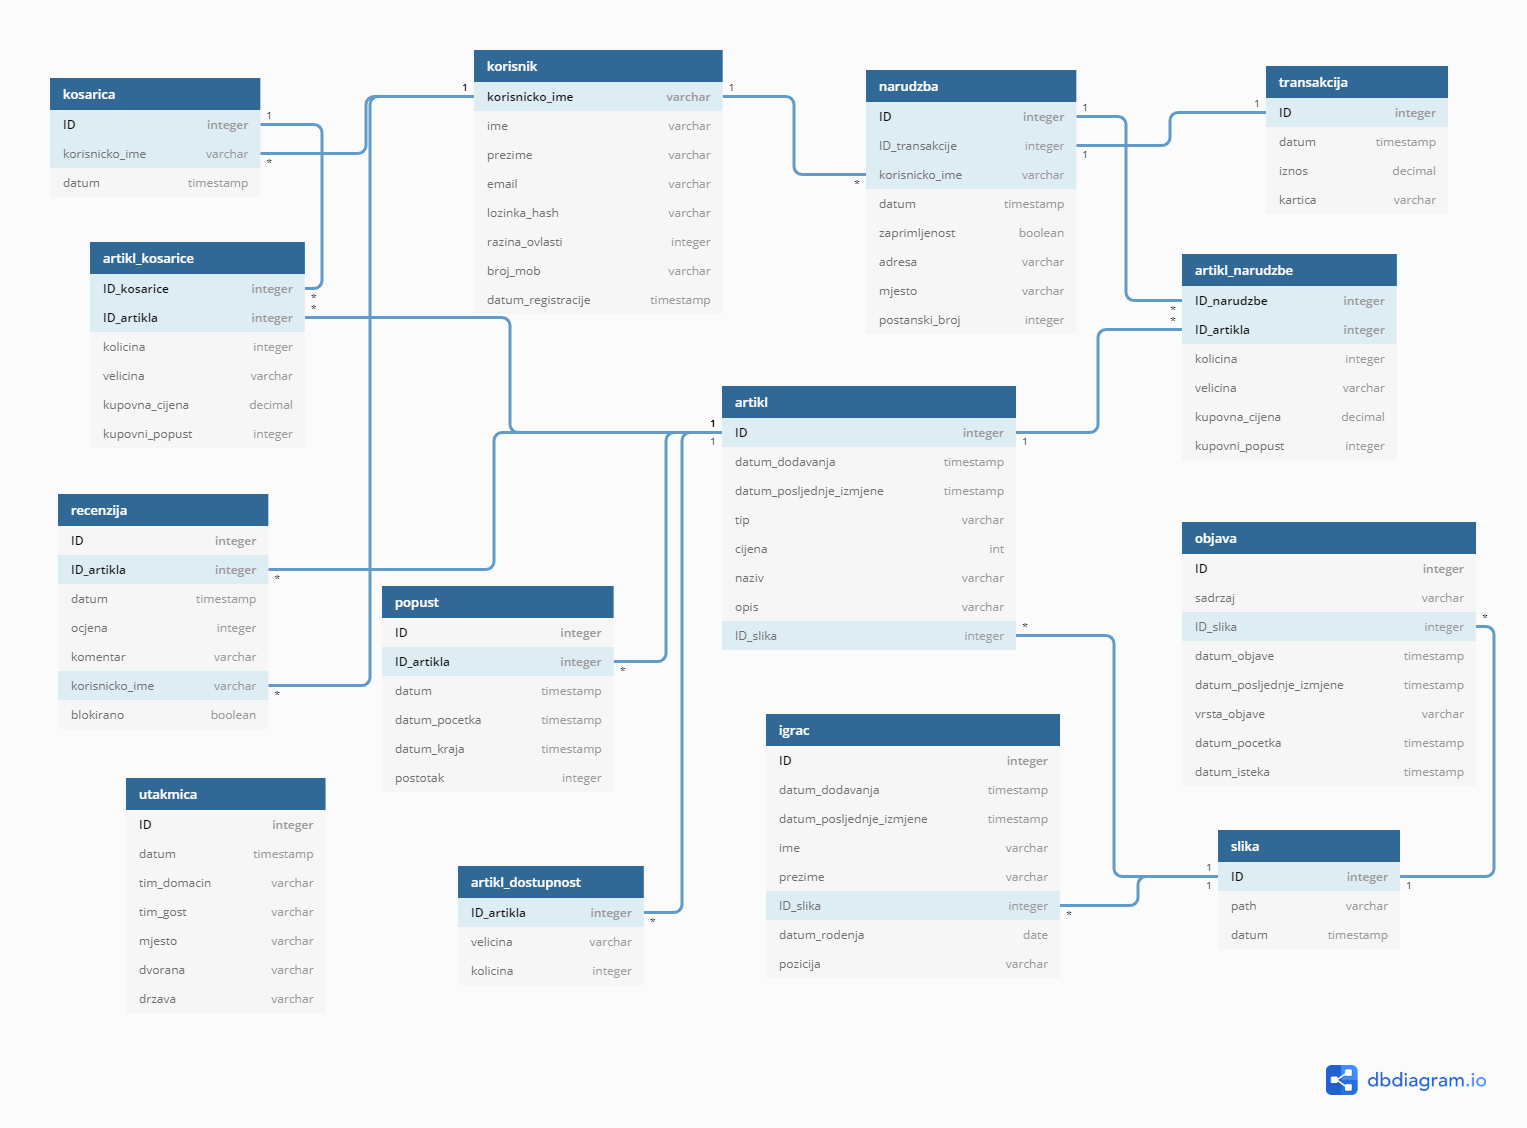
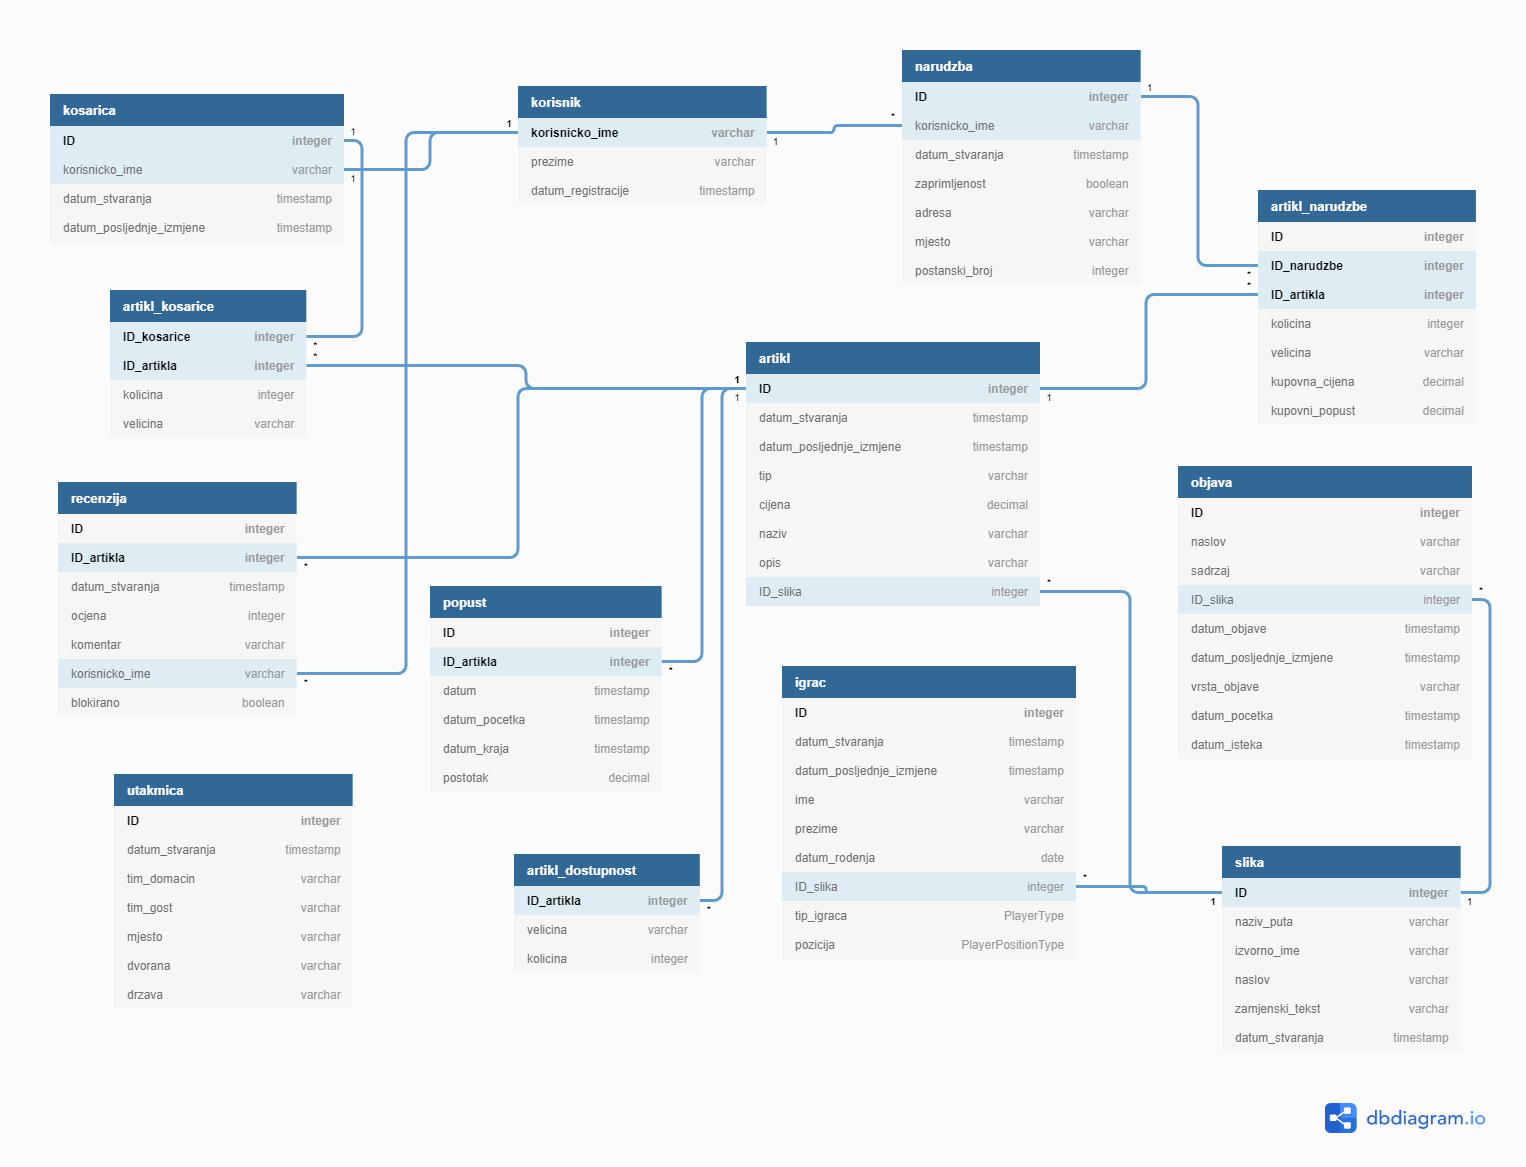
Chapter 'Baza podataka' updated.

diff --git a/dokumentacija/Arhitektura.tex b/dokumentacija/Arhitektura.tex
@@ -35,7 +35,6 @@
 			\item  Košarica
 			\item  Korisnik
 			\item  Narudžba
-			\item Transakcija
 			\item Artikl košarice
 			\item Artikl narudžbe
 			\item Artikl
@@ -56,7 +55,7 @@
 				
 				\bigbreak
 
-				\textnormal{Tablica \textbf{Korisnik} opisuje svakog korisnika, klijenta, trenera, upravu ili administratora aplikacije. Sadrži atribute: korisničko ime, ime, prezime, e-mail, hash lozinke, razinu ovlasti, broj mobitela i datum registracije. Povezana je vezom \textit{One-to-Many} s entitetima Narudžba, Košarica i Recenzija preko korisničkog imena.}
+				\textnormal{Tablica \textbf{Korisnik} opisuje svakog korisnika, klijenta, trenera, upravu ili administratora aplikacije. Sadrži atribute: korisničko ime, prezime i datum registracije. Povezana je vezom \textit{One-to-Many} s entitetima Narudžba i Recenzija, a \textit{One-to-One} s Košaricom preko korisničkog imena.}
 				
 				\begin{longtabu} to \textwidth {|X[8, l]|X[6, l]|X[20, l]|}
 					
@@ -70,20 +69,15 @@
 					\endlastfoot
 					
 					\textbf{korisnicko\_ime}  & VARCHAR	&  jedinstveni identifikator korisnika	\\ \hline
-					ime	& VARCHAR &   ime korisnika	\\ \hline 
 					prezime & VARCHAR & prezime korisnika \\ \hline
-					e-mail & VARCHAR & e-mail korisnika  \\ \hline 
-					lozinka\_hash & VARCHAR	&  	hash lozinke	\\ \hline 
-					razina\_ovlasti & INT & razina ovlasti korisnika \\ \hline
-					broj\_mob & VARCHAR & broj mobitela korisnika \\ \hline 
 					datum\_registracije	& TIMESTAMP & datum registracije korisnika   	\\ \hline 
 					
 					
 				\end{longtabu}
 			
-			\textnormal{Tablica \textbf{Košarica} opisuje košarice koje se koriste u web shop-u. Sadrži atribute: ID, korisničko ime te datum kreiranja košarice. Povezana je vezom \textit{One-to-Many} s entitetom Artikl Košarice preko ID-a i \textit{Many-to-One} s entitetom Korisnik preko korisničkog imena. }
+			\textnormal{Tablica \textbf{Košarica} opisuje košarice koje se koriste u web shop-u. Sadrži atribute: ID, korisničko ime te datum kreiranja i posljednje izmjene košarice. Povezana je vezom \textit{One-to-Many} s entitetom Artikl Košarice preko ID-a i \textit{One-to-One} s entitetom Korisnik preko korisničkog imena. }
 			
-			\begin{longtabu} to \textwidth {|X[8, l]|X[6, l]|X[20, l]|}
+			\begin{longtabu} to \textwidth {|X[12, l]|X[6, l]|X[16, l]|}
 				
 				\hline \multicolumn{3}{|c|}{\textbf{Košarica}}	 \\[3pt] \hline
 				\endfirsthead
@@ -96,12 +90,13 @@
 				
 				\textbf{ID} & INT	&  jedinstveni identifikator košarice	\\ \hline
 				\textit{korisnicko\_ime} 	& VARCHAR &   ime korisnika koji koristi košaricu	\\ \hline 
-				datum& TIMESTAMP & datum kreiranja košarice	\\ \hline 
+				datum\_stvaranja& TIMESTAMP & datum kreiranja košarice	\\ \hline
+				datum\_posljednje\_izmjene& TIMESTAMP & datum posljednje izmjene košarice	\\ \hline 
 				
 			\end{longtabu}
 		
 		
-		\textnormal{Tablica \textbf{Artikl Košarice} opisuje artikle košarice koje se koriste u web shop-u. Sadrži atribute: ID košarice, ID artikla, količinu artikla, veličinu artikla, kupovnu cijenu i kupovni popust. Povezana je vezom \textit{Many-to-One} s entitetima Artikl i Košarica preko ID artikla, odnosno ID košarice.}
+		\textnormal{Tablica \textbf{Artikl Košarice} opisuje artikle košarice koje se koriste u web shop-u. Sadrži atribute: ID košarice, ID artikla, količinu artikla i veličinu artikla. Povezana je vezom \textit{Many-to-One} s entitetima Artikl i Košarica preko ID artikla, odnosno ID košarice.}
 		
 		\begin{longtabu} to \textwidth {|X[8, l]|X[6, l]|X[20, l]|}
 			
@@ -114,12 +109,10 @@
 			\hline 
 			\endlastfoot
 			
-			\textbf{ID\_košarice} & INT	&  jedinstveni identifikator košarice	\\ \hline
-			\textbf{ID\_artikla}	& int &  jedinstveni identifikator artikla	\\ \hline 
+			\textbf{\textit{ID\_košarice}} & INT	&  jedinstveni identifikator košarice	\\ \hline
+			\textbf{\textit{ID\_artikla}}	& INT &  jedinstveni identifikator artikla	\\ \hline 
 			kolicina & INT  & količina artikla \\ \hline 
 			velicina & VARCHAR  & veličina artikla \\ \hline 
-			kupovna\_cijena & DECIMAL  & kupovna cijena artikla \\ \hline 
-			kupovni\_popust & INT  & kupovni popust artikla  \\ \hline 
 			
 		\end{longtabu}
 		\textnormal{Tablica \textbf{Recenzija} opisuje recenzije ostavljene artiklu u web shop-u. Sadrži atribute: ID, ID artikla, datum, ocjena, komentar, korisničko ime i blokirano. Povezana je vezom \textit{Many-to-One} s entitima Artikl i Korisnik preko ID artikla, odnosno korisničkog imena. }
@@ -136,16 +129,16 @@
 		\endlastfoot
 		
 		\textbf{ID} & INT	&  jedinstveni identifikator recenzije	\\ \hline
-		\textit{ID\_artikla}	& INT &  jedinstveni identifikator artikla	\\ \hline 
-		datum & TIMESTAMP  & datum dodavanja recenzije \\ \hline 
+		\textit{\textbf{ID\_artikla}}	& INT &  jedinstveni identifikator artikla	\\ \hline 
+		datum\_stvaranja & TIMESTAMP  & datum dodavanja recenzije \\ \hline 
 		ocjena & INT  & ocjena artikla \\ \hline 
 		komentar & VARCHAR  & komentar recenzije \\ \hline 
-		korisnicko\_ime & INT  & korisničko ime korisnika koji ostavlja recenziju  \\ \hline 
+		\textit{korisnicko\_ime} & VARCHAR  & korisničko ime korisnika koji ostavlja recenziju  \\ \hline 
 		blokirano & BOOLEAN  & dozvoljena ili blokirana recenzija \\ \hline 
 		
 	\end{longtabu}
 
-	\textnormal{Tablica \textbf{Utakmica} opisuje utakmice kluba. Sadrži atribute: ID, datum, tim domacin, tim gost, mjesto, dvorana i drzava. }
+	\textnormal{Tablica \textbf{Utakmica} opisuje utakmice kluba. Sadrži atribute: ID, datum stvaranja, tim domacin, tim gost, mjesto, dvorana i drzava. }
 
 \begin{longtabu} to \textwidth {|X[8, l]|X[6, l]|X[20, l]|}
 	
@@ -159,7 +152,7 @@
 	\endlastfoot
 	
 	\textbf{ID} & INT	&  jedinstveni identifikator utakmice	\\ \hline
-	datum & TIMESTAMP &  jedinstveni identifikator artikla	\\ \hline 
+	datum\_stvaranja & TIMESTAMP &  jedinstveni identifikator artikla	\\ \hline 
 	tim\_domacin & VARCHAR  & tim domaćin utakmice \\ \hline 
 	tim\_gost & VARCHAR  & tim gost utakmice  \\ \hline 
 	mjesto & VARCHAR  & mjesto održavanja utakmice \\ \hline 
@@ -168,7 +161,7 @@
 	
 \end{longtabu}
 
-\textnormal{Tablica \textbf{Popust} opisuje popuste na artikl dodane na web shop. Sadrži atribute: ID, ID artikla, datum, datum pocetka, datum kraja i postotak popusta. Entitet je povezan vezom \textit{Many-to-One} s entitetom Artikl preko ID artikla.}
+\textnormal{Tablica \textbf{Popust} opisuje popuste na artikl dodane na web shop. Sadrži atribute: ID, ID artikla, datum stvaranja, datum početka, datum kraja i postotak popusta. Entitet je povezan vezom \textit{Many-to-One} s entitetom Artikl preko ID artikla.}
 
 \begin{longtabu} to \textwidth {|X[8, l]|X[6, l]|X[20, l]|}
 	
@@ -182,15 +175,15 @@
 	\endlastfoot
 	
 	\textbf{ID} & INT	&  jedinstveni identifikator popusta	\\ \hline
-	\textit{ID\_artikla} & INT &  jedinstveni identifikator artikla	\\ \hline 
+	\textit{\textbf{ID\_artikla}} & INT &  jedinstveni identifikator artikla	\\ \hline 
 	datum & TIMESTAMP  & datum stvaranja popusta \\ \hline 
 	datum\_pocetka & TIMESTAMP  & datum početka popusta  \\ \hline 
 	datum\_kraja & TIMESTAMP  & datum završetka popusta \\ \hline 
-	postotak & INT  & postotak popusta \\ \hline 
+	postotak & DECIMAL  & postotak popusta \\ \hline 
 	
 \end{longtabu}
 
-\textnormal{Tablica \textbf{Slika} opisuje slike dodane na web stranicu. Sadrži atribute: ID, path, datum. Entitet je povezan vezom \textit{One-to-Many} s entitetima Artikl, Objava i Igrač preko ID slike.}
+\textnormal{Tablica \textbf{Slika} opisuje slike dodane na web stranicu. Sadrži atribute: ID, naziv puta, izvorno ime, naslov, zamjenski tekst i datum stvaranja. Entitet je povezan vezom \textit{One-to-Many} s entitetima Artikl, Objava i Igrač preko ID slike.}
 
 \begin{longtabu} to \textwidth {|X[8, l]|X[6, l]|X[20, l]|}
 	
@@ -204,13 +197,16 @@
 	\endlastfoot
 	
 	\textbf{ID} & INT	&  jedinstveni identifikator slike	\\ \hline
-     path & VARCHAR  &  put do slike	\\ \hline 
-	datum & TIMESTAMP  & datum dodavanja slike \\ \hline 
+    naziv\_puta & VARCHAR  &  put do slike	\\ \hline 
+	izvorno\_ime & VARCHAR  & izvorno ime slike \\ \hline
+	naslov & VARCHAR  & ime slike \\ \hline
+	zamjenski\_tekst & VARCHAR  & zamjenski tekst slike koje ne može biti prikazana \\ \hline
+	datum\_stvaranja & TIMESTAMP  & datum dodavanja slike \\ \hline
 \end{longtabu}
 
-\textnormal{Tablica \textbf{Artikl} opisuje artikle dodane na web shop. Sadrži atribute: ID, datum dodavanja, datum posljednje izmjene, tip, cijenu, naziv, opis, ID slike. Entitet je povezan vezom \textit{One-to-Many} s entitetima Artikl Dostupnost, Popust, Artikl Narudžbe, Recenzija te Artikl Košarice preko ID artikla i vezom \textit{Many-to-One} s entitetom Slika preko ID slike.}
+\textnormal{Tablica \textbf{Artikl} opisuje artikle dodane na web shop. Sadrži atribute: ID, datum stvaranja, datum posljednje izmjene, tip, cijenu, naziv, opis, ID slike. Entitet je povezan vezom \textit{One-to-Many} s entitetima Artikl Dostupnost, Popust, Artikl Narudžbe, Recenzija te Artikl Košarice preko ID artikla i vezom \textit{Many-to-One} s entitetom Slika preko ID slike.}
 
-\begin{longtabu} to \textwidth {|X[8, l]|X[6, l]|X[20, l]|}
+\begin{longtabu} to \textwidth {|X[12, l]|X[6, l]|X[16, l]|}
 	
 	\hline \multicolumn{3}{|c|}{\textbf{Artikl}}	 \\[3pt] \hline
 	\endfirsthead
@@ -222,16 +218,16 @@
 	\endlastfoot
 	
 	\textbf{ID} & INT	&  jedinstveni identifikator artikla	\\ \hline
-	datum\_dodavanja & TIMESTAMP  & datum dodavanja artikla \\ \hline 
-	datum\_izmjene & TIMESTAMP  & datum posljednje izmjene slike \\ \hline 
+	datum\_stvaranja & TIMESTAMP  & datum dodavanja artikla \\ \hline 
+	datum\_posljednje\_izmjene & TIMESTAMP  & datum posljednje izmjene slike \\ \hline 
 	tip & VARCHAR  & tip artikla \\ \hline 
-	cijena & INT  & cijena artikla \\ \hline 
+	cijena & DECIMAL  & cijena artikla \\ \hline 
 	naziv  & VARCHAR  & naziv artikla \\ \hline 
 	opis & VARCHAR  & opis artikla \\ \hline 
-	\textit{ID\_slike} & INT  & jedinstveni identifikator slike  \\ \hline 
+	\textit{ID\_slika} & INT  & jedinstveni identifikator slike  \\ \hline 
 	 
 \end{longtabu}
-\textnormal{Tablica \textbf{Narudžba} opisuje narudžbe artikala aplikacije. Sadrži atribute: ID,korisničko ime, datum, zaprimljenost, adresa, mjesto, poštanski broj. Entitet je povezan vezom \textit{One-to-Many} s entitetima Artikl Narudžbe preko ID narudžbe i vezom \textit{Many-to-One} s entitetom Korisnik preko korisničkog imena.}
+\textnormal{Tablica \textbf{Narudžba} opisuje narudžbe artikala aplikacije. Sadrži atribute: ID, korisničko ime, datum stvaranja, zaprimljenost, adresa, mjesto, poštanski broj. Entitet je povezan vezom \textit{One-to-Many} s entitetima Artikl Narudžbe preko ID narudžbe i vezom \textit{Many-to-One} s entitetom Korisnik preko korisničkog imena.}
 
 \begin{longtabu} to \textwidth {|X[8, l]|X[6, l]|X[20, l]|}
 	
@@ -246,7 +242,7 @@
 	
 	\textbf{ID} & INT	&  jedinstveni identifikator narudžbe	\\ \hline
 	\textit{korisnicko\_ime} & VARCHAR  & korisničko ime korisnika koji naručuje \\ \hline 
-	datum & TIMESTAMP  & datum formiranja narudžbe\\ \hline 
+	datum\_stvaranja & TIMESTAMP  & datum formiranja narudžbe\\ \hline 
 	zaprimljenost & BOOLEAN  & oznaka zaprimljenosti narudžbe \\ \hline 
 	adresa  & VARCHAR  & adresa korisnika koji naručuje \\ \hline 
 	mjesto & VARCHAR  & mjesto korisnika koji naručuje\\ \hline 
@@ -256,7 +252,7 @@
 
 \textnormal{Tablica \textbf{Objava} opisuje sadržaje objavljene na stranici. Sadrži atribute: ID, naslov, sadržaj, ID slike, datum objave, datum izmjene, vrsta objave, datum pocetka i datum isteka. Entitet je povezan  vezom \textit{Many-to-One} s entitetom Slika preko ID slike.}
 
-\begin{longtabu} to \textwidth {|X[8, l]|X[6, l]|X[20, l]|}
+\begin{longtabu} to \textwidth {|X[12, l]|X[6, l]|X[16, l]|}
 	
 	\hline \multicolumn{3}{|c|}{\textbf{Objava}}	 \\[3pt] \hline
 	\endfirsthead
@@ -268,33 +264,14 @@
 	\endlastfoot
 	
 	\textbf{ID} & INT	&  jedinstveni identifikator objave	\\ \hline
-	 sadržaj & VARCHAR  & sadržaj objave \\ \hline 
-	 naslov & VARCHAR  & naslov objave \\ \hline
-	\textit{ID\_slike} & ID  & jedinstveni identifikator slike  \\ \hline 
+	naslov & VARCHAR  & naslov objave \\ \hline
+	sadržaj & VARCHAR  & sadržaj objave \\ \hline
+	\textit{ID\_slika} & INT  & jedinstveni identifikator slike  \\ \hline 
 	datum\_objave & TIMESTAMP  & datum postavljanja objave \\ \hline 
-	datum\_izmjene & TIMESTAMP  & datum posljednje izmjene objave \\ \hline
+	datum\_posljednje\_izmjene & TIMESTAMP  & datum posljednje izmjene objave \\ \hline
 	vrsta\_objave & VARCHAR  & vrsta objave \\ \hline 
 	datum\_pocetka & TIMESTAMP  & datum početka objave \\ \hline
 	datum\_isteka & TIMESTAMP  & datum isteka objave \\ \hline
-	
-\end{longtabu}
-\textnormal{Tablica \textbf{Transakcija} opisuje sve obavljane transakcije. Sadrži atribute: ID, datum, iznos, kartica. Entitet je povezan  vezom \textit{One-to-Many} s entitetom Narudžba preko ID transakcije.}
-
-\begin{longtabu} to \textwidth {|X[8, l]|X[6, l]|X[20, l]|}
-	
-	\hline \multicolumn{3}{|c|}{\textbf{Transakcija}}	 \\[3pt] \hline
-	\endfirsthead
-	
-	\hline \multicolumn{3}{|c|}{\textbf{Transakcija}}	 \\[3pt] \hline
-	\endhead
-	
-	\hline 
-	\endlastfoot
-	
-	\textbf{ID} & INT	&  jedinstveni identifikator transakcije	\\ \hline
-	datum & TIMESTAMP  & datum obavljanja transakcije  \\ \hline 
-	iznos & DECIMAL  & iznos transakcije \\ \hline
-	kartica & VARCHAR  & kartica transakcije  \\ \hline 
 	
 \end{longtabu}
 
@@ -312,12 +289,12 @@
 	\endlastfoot
 	
 	\textbf{ID\_artikla} & INT	&  jedinstveni identifikator artikla	\\ \hline
-	\textbf {veličina} & VARCHAR  & veličina artikla \\ \hline
+	veličina & VARCHAR  & veličina artikla \\ \hline
 	količina & INT  & količina artikla  \\ \hline 
 	
 \end{longtabu}
 
-\textnormal{Tablica \textbf{Artikl narudžbe} opisuje sve artikle narudžbe. Sadrži atribute: ID narudžbe, ID artikla, količina, veličina, kupovna cijena i kupovni popust. Entitet je povezan  vezom \textit{Many-to-One} s entitetima Narudžba preko ID narudžbe i Artikl preko ID artikla.}
+\textnormal{Tablica \textbf{Artikl narudžbe} opisuje sve artikle narudžbe. Sadrži atribute: ID, ID narudžbe, ID artikla, količina, veličina, kupovna cijena i kupovni popust. Entitet je povezan  vezom \textit{Many-to-One} s entitetima Narudžba preko ID narudžbe i Artikl preko ID artikla.}
 
 \begin{longtabu} to \textwidth {|X[8, l]|X[6, l]|X[20, l]|}
 	
@@ -330,18 +307,19 @@
 	\hline 
 	\endlastfoot
 	
+	\textbf{ID} & INT &  jedinstveni identifikator artikla narudžbe	\\ \hline
 	\textbf{ID\_narudzbe} & INT	&  jedinstveni identifikator narudžbe	\\ \hline
 	\textbf{ID\_artikla} & INT	&  jedinstveni identifikator artikla	\\ \hline
 	količina & INT  & količina artikla  \\ \hline 
 	veličina & VARCHAR  & veličina artikla \\ \hline
 	kupovna\_cijena & DECIMAL  & kupovna cijena  \\ \hline 
-	kupovni\_popust & INT  & kupovni popust \\ \hline
+	kupovni\_popust & DECIMAL  & kupovni popust \\ \hline
 	
 \end{longtabu}
 
-\textnormal{Tablica \textbf{Igrač} opisuje sve igrače. Sadrži atribute: ID, datum dodavanja, datum posljednje izmjene, ime, prezime, ID slike, datum rođenja i pozicija. Entitet je povezan vezom \textit{Many-to-One} s entitetom Slika.}
+\textnormal{Tablica \textbf{Igrač} opisuje sve igrače. Sadrži atribute: ID, datum stvaranja, datum posljednje izmjene, ime, prezime, ID slike, datum rođenja, tip igrača i njegova pozicija. Entitet je povezan vezom \textit{Many-to-One} s entitetom Slika.}
 
-\begin{longtabu} to \textwidth {|X[8, l]|X[6, l]|X[20, l]|}
+\begin{longtabu} to \textwidth {|X[12, l]|X[12, l]|X[10, l]|}
 	
 	\hline \multicolumn{3}{|c|}{\textbf{Igrač}}	 \\[3pt] \hline
 	\endfirsthead
@@ -352,14 +330,15 @@
 	\hline 
 	\endlastfoot
 	
-	\textbf{ID\_narudzbe} & INT	&  jedinstveni identifikator igrača	\\ \hline
-	datum\_dodavanja & TIMESTAMP  & datum dodavanja igrača \\ \hline 
-	datum\_izmjene & TIMESTAMP  & datum izmjene igrača \\ \hline 
+	\textbf{ID} & INT	&  jedinstveni identifikator igrača	\\ \hline
+	datum\_stvaranja & TIMESTAMP  & datum dodavanja igrača \\ \hline 
+	datum\_posljednje\_izmjene & TIMESTAMP  & datum izmjene igrača \\ \hline 
 	ime & VARCHAR  & ime igrača \\ \hline
 	prezime & VARCHAR  & prezime igrača \\ \hline
+	datum\_rodenja & DATE  & datum rođenja igrača \\ \hline
 	\textit{ID\_slike} & INT  & jedinstveni identifikator slike igrača \\ \hline
-	datum\_rodenja & DATE  & datum rođenja igrača \\ \hline 
-	pozicija & VARCHAR  & pozicija igrača \\ \hline
+	tip\_igraca & PLAYERTYPE  & tip igrača \\ \hline 
+	pozicija & PLAYERPOSITIONTYPE  & igraća pozicija igrača \\ \hline
 	
 	
 \end{longtabu}
